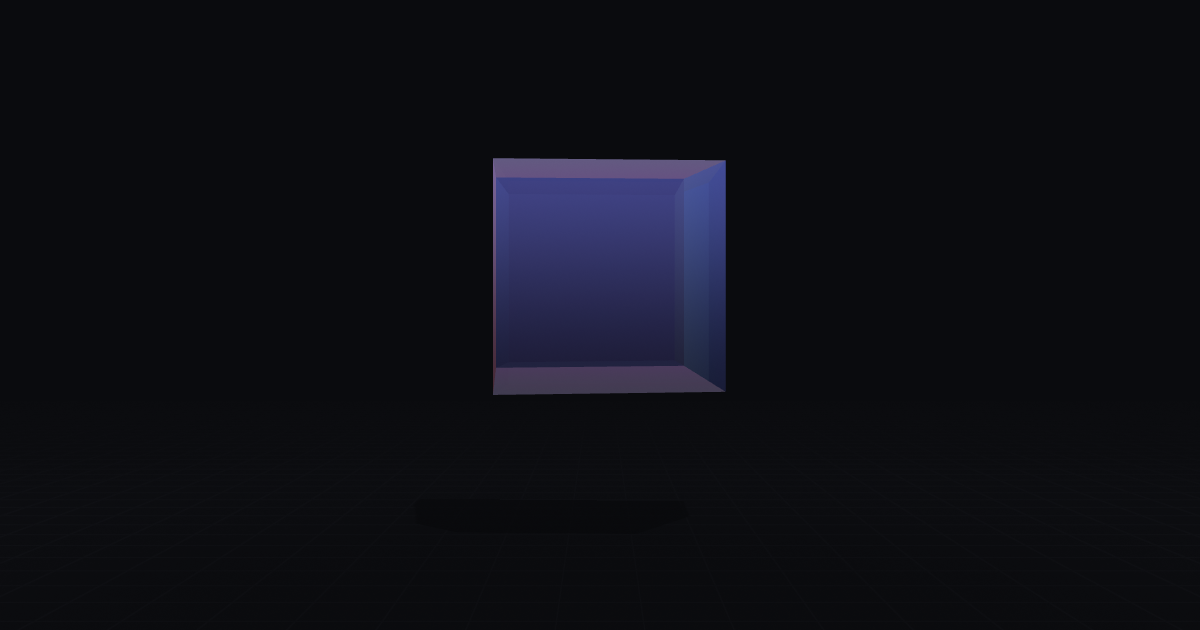
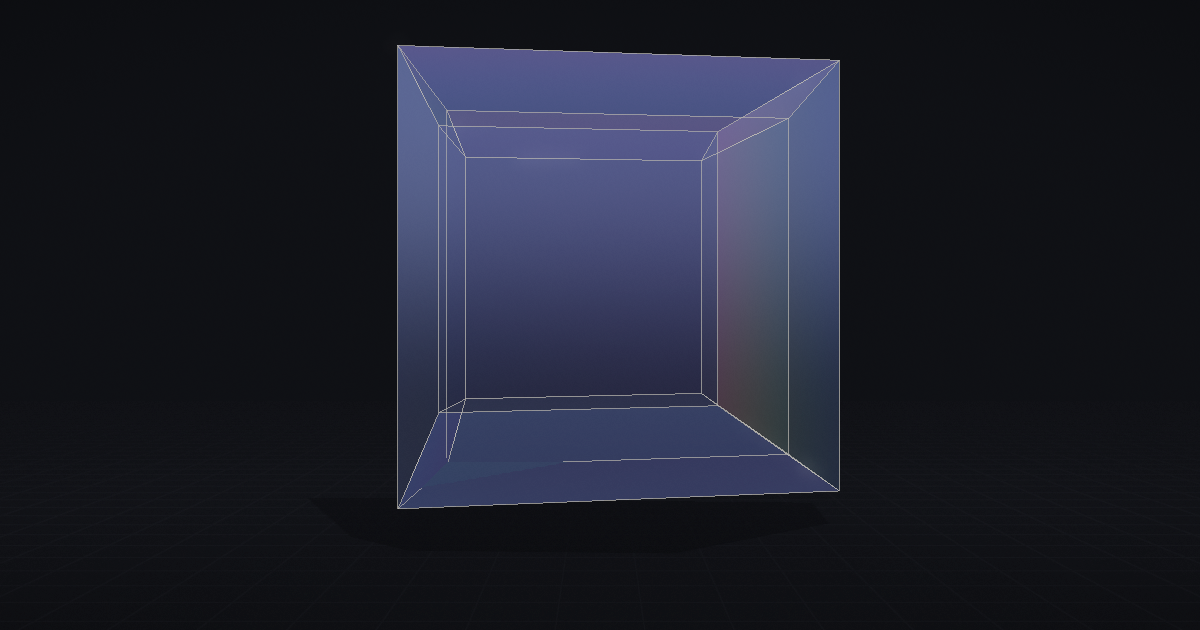
i joystick andavano al contrario, i testi si accavallavano, il cubo non si leggeva
Tre difetti, tutti verificati invece che indovinati.

1. Il movimento era invertito. `fwd` è l'asse +z della camera, che punta VERSO
   il giocatore: avanti è −fwd, e il dito in alto dà move.y = −1, quindi il
   segno giusto è +fwd·move.y. Misurato: dito in su ora dà dz −0,77 (si
   avvicina) invece di +0,77. Rotazione orizzontale e verticale erano già
   giuste, verificate allo stesso modo. I test end-to-end codificavano il
   verso sbagliato e sono stati corretti con il codice.

2. I testi si accavallavano fra loro e finivano sotto il cursore della quarta
   direzione. Ora sono una colonna sola che si impila, con una sfumatura
   dietro, e si ferma prima della colonna dei comandi. Verificato misurando i
   riquadri: nessuna sovrapposizione fra testi, levette, cursore e pillole.

3. Il tesseratto sembrava una scatola foderata perché la prospettiva in w era
   troppo debole: la cella lontana stava al 73% di quella vicina. Portando il
   fuoco della camera 4D da 3,2 a 2,5 e allargando l'oggetto in w, il rapporto
   scende sotto il 55% — ed è il cubo dentro il cubo delle immagini classiche.
   Rigenerata anche la GIF del README, che era ferma alla versione vecchia.

Più: anelli e mano tornano solidi invece che di vetro (a quella dimensione la
rifrazione era rumore), i solidi hanno un bordo di luce e una luce d'ambiente
a due toni, e la generazione dei materiali per la stampa gira a densità 1
perché il bagliore a densità 2 non stava nei tempi.
[…]

Changed region(s): [[0.3083, 0.0603, 0.7092, 0.8143]]

diff --git a/index.html b/index.html
@@ -40,18 +40,29 @@
   .gone { display: none !important; }
 
   /* ---------------------------------------------------------------- testo */
+  /* Una colonna sola: i testi si impilano, non si sovrappongono mai, e stanno
+     sopra la fascia dei comandi invece che addosso. */
+  #texts {
+    /* si ferma prima della colonna del cursore w: i testi non ci vanno mai sotto */
+    position: absolute; left: 0; right: calc(74px + env(safe-area-inset-right));
+    bottom: calc(178px + env(safe-area-inset-bottom));
+    display: flex; flex-direction: column; align-items: center; gap: 8px;
+    padding: 14px var(--pad) 10px; pointer-events: none;
+    background: linear-gradient(to top, rgba(6,7,10,.72), rgba(6,7,10,.45) 55%, rgba(6,7,10,0));
+  }
+  #texts > * { pointer-events: auto; }
   #subtitle {
-    position: absolute; left: 0; right: 0; bottom: calc(150px + env(safe-area-inset-bottom));
-    margin: 0 auto; max-width: 34rem; padding: 0 var(--pad);
-    text-align: center; font-size: clamp(17px, 4.4vw, 22px); line-height: 1.4;
-    text-shadow: 0 2px 18px rgba(0,0,0,.85), 0 0 2px rgba(0,0,0,.9);
+    margin: 0 auto; max-width: 34rem; text-align: center;
+    font-size: clamp(16px, 4.2vw, 21px); line-height: 1.38;
+    text-shadow: 0 2px 18px rgba(0,0,0,.9);
   }
   #action {
-    position: absolute; left: 0; right: 0; bottom: calc(108px + env(safe-area-inset-bottom));
-    text-align: center; padding: 0 var(--pad); color: var(--accent);
-    font-size: clamp(15px, 3.9vw, 19px); font-weight: 600;
-    text-shadow: 0 2px 14px rgba(0,0,0,.9);
+    max-width: 34rem; text-align: center; color: var(--accent);
+    font-size: clamp(15px, 3.9vw, 18px); font-weight: 600; line-height: 1.35;
+    text-shadow: 0 2px 14px rgba(0,0,0,.95);
   }
+  /* nascosto vuol dire fuori dal flusso: niente spazi vuoti fra i due testi */
+  #subtitle.hidden, #action.hidden { display: none; }
   #chapterTitle {
     position: absolute; top: calc(62px + env(safe-area-inset-top)); left: 0; right: 0; padding: 0 18px;
     text-align: center; color: var(--dim); font-size: 13px; letter-spacing: .09em; text-transform: lowercase;
@@ -68,7 +79,7 @@
   .btn:active { transform: scale(.96); background: rgba(255,255,255,.14); }
   .btn.primary { background: rgba(142,197,255,.16); border-color: rgba(142,197,255,.5); color: #dcecff; }
   #choices {
-    position: absolute; left: 0; right: 0; bottom: calc(56px + env(safe-area-inset-bottom));
+    position: absolute; left: 0; right: 0; bottom: calc(150px + env(safe-area-inset-bottom));
     display: flex; gap: 10px; justify-content: center; flex-wrap: wrap; padding: 0 var(--pad);
   }
 
@@ -183,7 +194,7 @@
   }
 
   #flatstrip { width: min(92vw, 30rem); height: 46px; border-radius: 8px; border: 1px solid rgba(255,255,255,.16); display: block; margin: 0 auto; }
-  #flatwrap { position: absolute; left: 0; right: 0; bottom: calc(190px + env(safe-area-inset-bottom)); padding: 0 var(--pad); }
+  #flatwrap { position: absolute; left: 0; right: 0; bottom: calc(232px + env(safe-area-inset-bottom)); padding: 0 var(--pad); }
 
   /* Gli obiettivi: cosa ci fai qui dentro. Senza, è una stanza con degli oggetti. */
   #goals {
@@ -208,7 +219,7 @@
     position: absolute; left: 0; right: 0; top: calc(84px + env(safe-area-inset-top));
     text-align: center; font-size: 15px; color: var(--accent);
   }
-  #share { position: absolute; left: 50%; transform: translateX(-50%); bottom: calc(200px + env(safe-area-inset-bottom)); }
+  #share { position: absolute; left: 50%; transform: translateX(-50%); bottom: calc(252px + env(safe-area-inset-bottom)); }
   #share.hidden { transform: translateX(-50%) translateY(6px); }
   #recdot { position: absolute; top: calc(14px + env(safe-area-inset-top)); left: 50%; transform: translateX(-50%); font-size: 12px; color: #ff8a8a; }
   #fatal { position: absolute; inset: 0; display: grid; place-items: center; padding: 8vw; text-align: center; color: var(--dim); }
@@ -235,8 +246,10 @@
   </div>
   <div id="toast" class="fade hidden"></div>
   <div id="recdot" class="fade hidden">● 6s</div>
-  <div id="subtitle" class="fade hidden"></div>
-  <div id="action" class="fade hidden"></div>
+  <div id="texts">
+    <div id="subtitle" class="fade hidden"></div>
+    <div id="action" class="fade hidden"></div>
+  </div>
   <div id="flatwrap" class="fade hidden"><canvas id="flatstrip"></canvas></div>
   <div id="choices" class="fade hidden"></div>
   <button id="share" class="btn primary fade hidden">manda a un amico</button>

diff --git a/src/game/world.js b/src/game/world.js
@@ -15,7 +15,7 @@ import { createSealedBoxPuzzle } from './puzzles/sealedbox.js';
 import { createRingsPuzzle } from './puzzles/rings.js';
 import { createHandPuzzle } from './puzzles/hand.js';
 
-export const SCALE_3D = 0.044; // metri per unità del volume-retina
+export const SCALE_3D = 0.028; // metri per unità del volume-retina
 export const OFFSET_3D = [0, 0.012, -0.125];
 export const FLOOR_Y = -0.050;
 
@@ -50,7 +50,8 @@ export function createWorld(renderer) {
 
   function polytopeObject(name, tint, { scale = null } = {}) {
     const poly = polytope(name);
-    const s = scale ?? 1 / poly.circumradius;
+    // 1,6 volte il raggio unitario: più estensione in w = nidificazione più marcata
+    const s = scale ?? 1.6 / poly.circumradius;
     const entry = gpuFor(`poly:${name}:${s}`, () => {
       const mesh = buildMesh(poly, { scale: s });
       mesh.cells = poly.cells.map((c) => ({
@@ -98,7 +99,7 @@ export function createWorld(renderer) {
   // proprio di quella. Là l'oggetto sta più vicino al vetro, e le facce si aprono.
   const DEFAULT_VIEW = { scale3: SCALE_3D, offset3: OFFSET_3D, floorY: FLOOR_Y, shadowRadius: 0.16 };
   const VIEWS = {
-    coldopen: { scale3: 0.055, offset3: [0, 0.014, -0.112], floorY: -0.058, shadowRadius: 0.20 },
+    coldopen: { scale3: 0.034, offset3: [0, 0.014, -0.112], floorY: -0.058, shadowRadius: 0.20 },
     oggetti: { scale3: 0.062, offset3: [0, 0.010, -0.100], floorY: -0.062, shadowRadius: 0.22 },
     cube: { scale3: 0.060, offset3: [0, 0.020, -0.058], floorY: -0.085, shadowRadius: 0.22 },
     box: { scale3: 0.030, offset3: [0, 0.014, -0.140], floorY: -0.044, shadowRadius: 0.20 },
@@ -244,8 +245,8 @@ export function createWorld(renderer) {
           if (name === 'room') {
             const rings = createRingsPuzzle({ center: [-1.7, 0.05, -0.5] });
             world.puzzles.rings = rings;
-            const rA = shapeObject('ringA', () => shapes.ringMesh({ radius: rings.radius, tube: 0.11, plane: 'xy' }), TINTS.ring, { glass: 1 });
-            const rB = shapeObject('ringB', () => shapes.ringMesh({ radius: rings.radius, tube: 0.11, plane: 'xz' }), TINTS.ring, { glass: 1 });
+            const rA = shapeObject('ringA', () => shapes.ringMesh({ radius: rings.radius, tube: 0.11, plane: 'xy' }), TINTS.ring, { glass: 0 });
+            const rB = shapeObject('ringB', () => shapes.ringMesh({ radius: rings.radius, tube: 0.11, plane: 'xz' }), TINTS.ring, { glass: 0 });
             rA.role = 'ringA';
             rB.role = 'ringB';
             rA.transform.position.set(rings.positionA);
@@ -409,8 +410,10 @@ export function createWorld(renderer) {
         const right = [R[0], R[4], R[8], R[12]];
         const fwd = [R[2], R[6], R[10], R[14]];
         const target = Float64Array.from(world.player);
+        // `fwd` è l'asse +z della camera, che punta VERSO di te: avanti è −fwd.
+        // Il dito verso l'alto dà move.y = −1, quindi il segno giusto è +fwd·move.y.
         for (let i = 0; i < 4; i++) {
-          target[i] += (right[i] * move.x - fwd[i] * move.y) * speed * dt;
+          target[i] += (right[i] * move.x + fwd[i] * move.y) * speed * dt;
         }
         target[1] = world.player[1];
         const next = world.blockers.length

diff --git a/test/e2e.spec.js b/test/e2e.spec.js
@@ -107,11 +107,11 @@ async function solveSealedBox(page) {
   };
 
   await setW(0.7); // fuori dalla fetta: la cassa non è più un ostacolo
-  await walkUntil({ x: 0, y: 1 }, (p) => Math.abs(p[2]) < 0.25, 25000); // sopra il coperchio
+  await walkUntil({ x: 0, y: -1 }, (p) => Math.abs(p[2]) < 0.25, 25000); // avanti, sopra il coperchio
   await setW(0); // e giù, dentro
   await page.waitForFunction(() => window.__fp.world.puzzles.box.state.holding, null, { timeout: 20000 });
   await setW(0.7);
-  await walkUntil({ x: 0, y: -1 }, (p) => p[2] > 1.3, 25000); // indietro, fuori dalla cassa
+  await walkUntil({ x: 0, y: 1 }, (p) => p[2] > 1.3, 25000); // indietro, fuori dalla cassa
   await setW(0);
   await page.waitForFunction(() => window.__fp.world.puzzles.box.state.solved, null, { timeout: 20000 });
 }
@@ -124,7 +124,7 @@ test('un enigma si risolve con i comandi, e solo uscendo dalla fetta', async ({ 
 
   // restando nella fetta la cassa tiene: si sbatte contro la parete
   const before = await page.evaluate(() => [...window.__fp.world.player]);
-  await page.evaluate(() => window.__fp.controls.setMove({ x: 0, y: 1 }));
+  await page.evaluate(() => window.__fp.controls.setMove({ x: 0, y: -1 }));
   await page.waitForTimeout(3200);
   await page.evaluate(() => window.__fp.controls.setMove({ x: 0, y: 0 }));
   const blocked = await page.evaluate(() => [...window.__fp.world.player]);
@@ -159,7 +159,7 @@ test('toccare la chiave fa qualcosa: o la prende, o dice perché no', async ({ p
 
   // e una volta dentro, si prende
   await page.evaluate(() => window.__fp.controls.setW(0.7));
-  await page.evaluate(() => window.__fp.controls.setMove({ x: 0, y: 1 }));
+  await page.evaluate(() => window.__fp.controls.setMove({ x: 0, y: -1 }));
   await page.waitForFunction(() => Math.abs(window.__fp.world.player[2]) < 0.25, null, { timeout: 25000 });
   await page.evaluate(() => window.__fp.controls.setMove({ x: 0, y: 0 }));
   await page.evaluate(() => window.__fp.controls.setW(0));

diff --git a/src/render/project.js b/src/render/project.js
@@ -10,8 +10,13 @@
 import { identity, mul, planeRotation, transpose, applyT, orthonormalize } from '../math4d/rotor.js';
 import { PLANES, PLANE_NAMES } from '../math4d/bivector.js';
 
-/** Distanza in w fra la camera 4D e la fetta abitata: è il "fuoco" della proiezione. */
-export const W_DISTANCE = 3.2;
+/**
+ * Distanza in w fra la camera 4D e la fetta abitata: è il "fuoco" della proiezione,
+ * e decide quanto la quarta dimensione si vede. A 3,2 la cella lontana era al 73%
+ * di quella vicina e il tesseratto sembrava una scatola foderata; a 2,5 sta poco
+ * sopra la metà, ed è il rapporto delle immagini classiche.
+ */
+export const W_DISTANCE = 2.5;
 export const NEAR_W = 0.35;
 
 export function makeCamera4() {

diff --git a/src/render/glass.js b/src/render/glass.js
@@ -128,6 +128,10 @@ void main() {
   vec3 solidColor = uTint * (0.22 + 0.78 * lam);
   vec3 H = normalize(normalize(uLightDir) + V);
   solidColor += vec3(1.0) * pow(max(dot(N, H), 0.0), 48.0) * 0.5;
+  // bordo di luce: stacca l'oggetto dal fondo e gli dà un volume vero
+  solidColor += uTint * pow(1.0 - cosT, 3.0) * 0.45;
+  // cielo dall'alto, terra dal basso: due sorgenti, non una lampada sola
+  solidColor += mix(vec3(0.06, 0.07, 0.10), vec3(0.16, 0.19, 0.26), N.y * 0.5 + 0.5);
 
   vec3 color = mix(solidColor, glassColor, uGlass);
 
